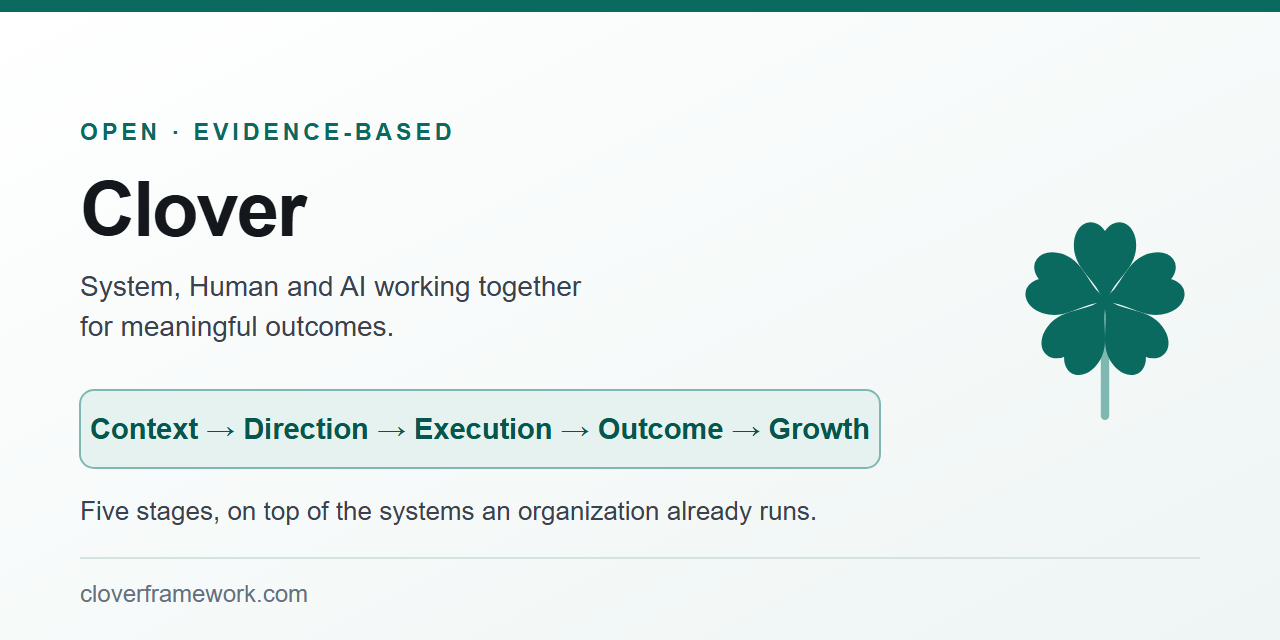
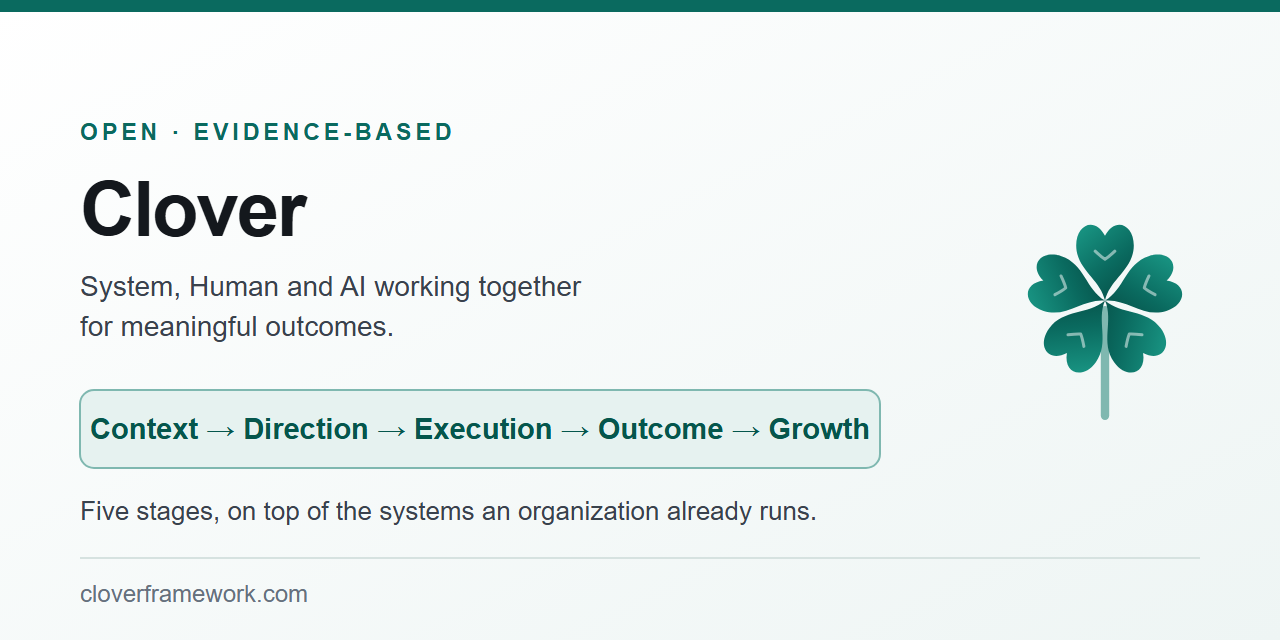
Make one clover mark canonical, and repair the story leaf pairing
assets/clover-cycle.svg was the only clover in the repository drawn from a different design: oval petals, a hub, straight labels with connector lines and a caption. It was also referenced from nowhere. It now holds the canonical mark, self-contained so it renders without the site stylesheet: heart leaves, veins, the teal gradient, and curved labels reading clockwise from Context.

The social card mark gained the same gradient and veins and is re-rendered. It previously used a flat fill with a stroke, which was the only other static clover that did not match.

The story mark on the homepage is deliberately left alone. Its fills are behaviour rather than decoration: is-next draws Growth dashed because nobody runs it, is-active fills each leaf as its step scrolls into view, and is-ink turns the whole mark dark on the closing step. A solid gradient would remove all three. It already draws from the same clover-leaf silhouette, so the shape is shared and only the fill differs, which is the part that carries meaning.

Also fixed a regression from the Action to Execution rename. The story mark's Execution label still carried data-leaf=action while its leaf carried data-leaf=execution. app.js matches marks to the current step on that attribute, so the Execution label would never have highlighted while scrolling. All five values are now paired three ways: leaf, label and step.
[…]

Changed region(s): [[0.7812, 0.3438, 0.9375, 0.5938]]

diff --git a/site/index.html b/site/index.html
@@ -27,7 +27,7 @@
 <section class="hero" id="overview"><div class="wrap"><div class="hero__top"><div><h1>Clover</h1><p class="hero__tagline">System, Human and AI working together for meaningful outcomes</p><p class="lede">The system is the Context. Direction is human. AI helps with the execution, alongside the human. Outcomes are the evidence of what changed in the system. All four together form the learning that makes the system better.</p><p style="margin-top:1rem"><strong>AI capability may scale, but accountability did not.</strong> The human holds Direction, and the accountability that comes with it.</p><div class="actions"><a class="btn btn--primary" href="#try">Try Clover</a><a class="btn" href="start/">Getting started</a><a class="btn btn--plain" href="evidence/">See real-world evidence →</a></div></div><svg class="clover clover--hero" viewBox="-6 -10 112 110" role="group" aria-label="A five-leaf clover. The leaves are Context, Direction, Execution, Outcome and Growth."><defs><linearGradient id="leaf-fade" x1="0.18" y1="0.05" x2="0.8" y2="1"><stop offset="0" stop-color="#17907f"/><stop offset="0.55" stop-color="#0a6a5f"/><stop offset="1" stop-color="#064f47"/></linearGradient><path id="arc-top" d="M28.20 12.87 A38 38 0 0 1 71.80 12.87"/><path id="arc-upper-right" d="M72.87 13.65 A38 38 0 0 1 86.34 55.11"/><path id="arc-lower-right" d="M50.77 87.99 A44 44 0 0 0 91.60 58.33"/><path id="arc-lower-left" d="M8.40 58.33 A44 44 0 0 0 49.23 87.99"/><path id="arc-upper-left" d="M13.66 55.11 A38 38 0 0 1 27.13 13.65"/></defs><g class="clover__leaf-hit" tabindex="0" role="img" aria-label="Context, held by the system. Everything the systems already hold: code, data, logs, history, and what earlier cycles wrote back. Read it rather than rebuilding it from memory."><title>Context — held by the system. Everything the systems already hold: code, data, logs, history, and what earlier cycles wrote back. Read it rather than rebuilding it from memory.</title><g transform="translate(50 44) scale(1.005 1.02) translate(-50 -44)"><use class="clover__leaf is-filled" href="#clover-leaf"/><use class="clover__vein" href="#clover-vein"/></g><text class="clover__label" text-anchor="middle"><textPath href="#arc-top" startOffset="50%">Context</textPath></text></g><g class="clover__leaf-hit" tabindex="0" role="img" aria-label="Direction, held by the human. What matters, which outcome is worth pursuing, the boundaries the work happens inside, and what must not happen. The human answers for it afterwards."><title>Direction — held by the human. What matters, which outcome is worth pursuing, the boundaries the work happens inside, and what must not happen. The human answers for it afterwards.</title><g transform="rotate(70.8 50 44) translate(50 44) scale(0.968 0.994) translate(-50 -44)"><use class="clover__leaf is-filled" href="#clover-leaf"/><use class="clover__vein" href="#clover-vein"/></g><text class="clover__label" text-anchor="middle"><textPath href="#arc-upper-right" startOffset="50%">Direction</textPath></text></g><g class="clover__leaf-hit" tabindex="0" role="img" aria-label="Execution, carried by AI. AI works out how the work should happen and does it, inside those boundaries. The human stays responsible for it being done well."><title>Execution — carried by AI. AI works out how the work should happen and does it, inside those boundaries. The human stays responsible for it being done well.</title><g transform="rotate(145.4 50 44) translate(50 44) scale(1.038 0.972) translate(-50 -44)"><use class="clover__leaf is-filled" href="#clover-leaf"/><use class="clover__vein" href="#clover-vein"/></g><text class="clover__label" text-anchor="middle"><textPath href="#arc-lower-right" startOffset="50%">Execution</textPath></text></g><g class="clover__leaf-hit" tabindex="0" role="img" aria-label="Outcome, shown by the system. What actually happened, favorable or not. A finished task, a passing build or a confident report is not an outcome on its own."><title>Outcome — shown by the system. What actually happened, favorable or not. A finished task, a passing build or a confident report is not an outcome on its own.</title><g transform="rotate(215.2 50 44) translate(50 44) scale(0.984 1.031) translate(-50 -44)"><use class="clover__leaf is-filled" href="#clover-leaf"/><use class="clover__vein" href="#clover-vein"/></g><text class="clover__label" text-anchor="middle"><textPath href="#arc-lower-left" startOffset="50%">Outcome</textPath></text></g><g class="clover__leaf-hit" tabindex="0" role="img" aria-label="Growth, kept by all three. Whatever the Outcome taught, written back so the next cycle starts from it. One wrong answer, understood and recorded, counts."><title>Growth — kept by all three. Whatever the Outcome taught, written back so the next cycle starts from it. One wrong answer, understood and recorded, counts.</title><g transform="rotate(288.9 50 44) translate(50 44) scale(1.022 0.963) translate(-50 -44)"><use class="clover__leaf is-filled" href="#clover-leaf"/><use class="clover__vein" href="#clover-vein"/></g><text class="clover__label" text-anchor="middle"><textPath href="#arc-upper-left" startOffset="50%">Growth</textPath></text></g></svg></div></div></section>
 <section class="band band--soft" id="capability"><div class="wrap"><p class="eyebrow">Where AI changes the work</p><h2>What is Clover?</h2><p class="lede">The system cycle existed before AI. Before AI, the system had two actors: <strong>System and Human</strong>.</p><p>AI disrupted this by becoming a <strong>third actor</strong>. AI can execute, but it cannot be held accountable for the consequences.</p><p>Clover makes the place of this third actor explicit:</p><p class="actors-line"><strong>System&nbsp;→ Human&nbsp;→ AI</strong></p><p>All three participate in the cycle, but responsibility changes by stage. <strong>AI executes within Human Direction and System boundaries. Humans remain accountable for what is pursued.</strong></p><dl class="kv" style="margin-top:1.4rem"><div><dt>Reasoning</dt><dd>AI can analyze systems, evidence, alternatives, and dependencies.</dd></div><div><dt>Planning</dt><dd>AI can turn Direction and Context into an operational path.</dd></div><div><dt>Execution</dt><dd>AI can write, test, query, coordinate, and carry out increasingly large portions of Execution.</dd></div><div><dt>Adaptation</dt><dd>AI can respond to what the System shows and change the path inside the Direction.</dd></div><div><dt>Validation support</dt><dd>AI can gather evidence and report what it could and could not verify.</dd></div><div><dt>Continuity</dt><dd>AI can preserve Context so another human, agent, or session can continue the work.</dd></div></dl></div></section>
 <section class="band band--wide" id="why-now"><div class="wrap"><p class="eyebrow">Why now</p><h2>AI can take on more of the Execution.</h2><p class="lede">The cycle existed before AI. The difference is that the execution layer is no longer limited to what humans can perform directly.</p><p>Before AI could execute substantial portions of work, a human usually supplied the context, made the decision, performed or coordinated the work, checked the result, and carried what they learned into the next attempt.</p><p>Now AI can read systems, reason about them, choose tools, make changes, run tests, coordinate work, and adapt to what reality shows.</p><p>The boundary does not move with it. <strong>Human Direction remains the source of purpose, meaning, priorities, boundaries, and accountability.</strong> The System remains the reality in which the outcome must exist and the primary source of evidence.</p></div></section>
-<section class="band" id="story"><div class="wrap"><p class="eyebrow">How it works</p><h2>One cycle, any scale</h2><p class="lede">The same five jobs apply from the smallest useful interaction to the most complex interconnected system.</p><div class="story" data-story><div class="story__stage"><svg class="story__clover" viewBox="-32 -20 164 132" role="img" aria-label="A five-leaf clover. The leaves are Context, Direction, Execution, Outcome and Growth."><path class="story__stem" d="M50 48C50 68 50 80 50 95"/><a class="story__leaf-link" href="#context" aria-label="Go to Context"><use class="story__leaf" data-leaf="context" href="#clover-leaf"/><text class="story__label" data-leaf="context" x="50" y="-5" text-anchor="middle">Context</text></a><a class="story__leaf-link" href="#st-direction-2" aria-label="Go to Direction"><use class="story__leaf" data-leaf="direction" href="#clover-leaf" transform="rotate(72 50 44)"/><text class="story__label" data-leaf="direction" x="98" y="30" text-anchor="start">Direction</text></a><a class="story__leaf-link" href="#st-execution-2" aria-label="Go to Execution"><use class="story__leaf" data-leaf="execution" href="#clover-leaf" transform="rotate(144 50 44)"/><text class="story__label" data-leaf="action" x="82" y="94" text-anchor="start">Execution</text></a><a class="story__leaf-link" href="#st-outcome-2" aria-label="Go to Outcome"><use class="story__leaf" data-leaf="outcome" href="#clover-leaf" transform="rotate(216 50 44)"/><text class="story__label" data-leaf="outcome" x="18" y="94" text-anchor="end">Outcome</text></a><a class="story__leaf-link" href="#st-growth-2" aria-label="Go to Growth"><use class="story__leaf" data-leaf="growth" href="#clover-leaf" transform="rotate(288 50 44)"/><text class="story__label" data-leaf="growth" x="2" y="30" text-anchor="end">Growth</text></a></svg><p class="story__caption">the five-leaf clover</p></div><div class="story__body"><header class="story__intro"><p class="story__act">One cycle · any scale</p><h3 class="story__title">The same way of working</h3><p class="story__lede">A small task can fit in a few lines. A large system may require many scoped cycles. The relationship does not change.</p></header><ol class="story__steps"><li class="story__step" id="context" data-leaf="context"><h4>Context</h4><p>Read the relevant System evidence. Use what is actually there rather than reconstructing the environment from memory.</p></li><li class="story__step" id="st-direction-2" data-leaf="direction"><h4>Direction</h4><p>The human defines the meaningful outcome, why it matters, the boundaries, priorities, and what must not happen.</p></li><li class="story__step" id="st-execution-2" data-leaf="execution"><h4>Execution</h4><p>AI determines and performs the means inside the human's Direction, using the System as Context.</p></li><li class="story__step" id="st-outcome-2" data-leaf="outcome"><h4>Outcome</h4><p>The System or relevant environment shows whether the intended outcome actually happened. An answer or artifact is not automatically Outcome.</p></li><li class="story__step" id="st-growth-2" data-leaf="growth"><h4>Growth</h4><p>Whatever the Outcome taught, written back so the next cycle starts from it. One wrong answer, understood and recorded, counts. An unfavorable Outcome usually teaches more than a favorable one.</p></li></ol></div></div></div></section>
+<section class="band" id="story"><div class="wrap"><p class="eyebrow">How it works</p><h2>One cycle, any scale</h2><p class="lede">The same five jobs apply from the smallest useful interaction to the most complex interconnected system.</p><div class="story" data-story><div class="story__stage"><svg class="story__clover" viewBox="-32 -20 164 132" role="img" aria-label="A five-leaf clover. The leaves are Context, Direction, Execution, Outcome and Growth."><path class="story__stem" d="M50 48C50 68 50 80 50 95"/><a class="story__leaf-link" href="#context" aria-label="Go to Context"><use class="story__leaf" data-leaf="context" href="#clover-leaf"/><text class="story__label" data-leaf="context" x="50" y="-5" text-anchor="middle">Context</text></a><a class="story__leaf-link" href="#st-direction-2" aria-label="Go to Direction"><use class="story__leaf" data-leaf="direction" href="#clover-leaf" transform="rotate(72 50 44)"/><text class="story__label" data-leaf="direction" x="98" y="30" text-anchor="start">Direction</text></a><a class="story__leaf-link" href="#st-execution-2" aria-label="Go to Execution"><use class="story__leaf" data-leaf="execution" href="#clover-leaf" transform="rotate(144 50 44)"/><text class="story__label" data-leaf="execution" x="82" y="94" text-anchor="start">Execution</text></a><a class="story__leaf-link" href="#st-outcome-2" aria-label="Go to Outcome"><use class="story__leaf" data-leaf="outcome" href="#clover-leaf" transform="rotate(216 50 44)"/><text class="story__label" data-leaf="outcome" x="18" y="94" text-anchor="end">Outcome</text></a><a class="story__leaf-link" href="#st-growth-2" aria-label="Go to Growth"><use class="story__leaf" data-leaf="growth" href="#clover-leaf" transform="rotate(288 50 44)"/><text class="story__label" data-leaf="growth" x="2" y="30" text-anchor="end">Growth</text></a></svg><p class="story__caption">the five-leaf clover</p></div><div class="story__body"><header class="story__intro"><p class="story__act">One cycle · any scale</p><h3 class="story__title">The same way of working</h3><p class="story__lede">A small task can fit in a few lines. A large system may require many scoped cycles. The relationship does not change.</p></header><ol class="story__steps"><li class="story__step" id="context" data-leaf="context"><h4>Context</h4><p>Read the relevant System evidence. Use what is actually there rather than reconstructing the environment from memory.</p></li><li class="story__step" id="st-direction-2" data-leaf="direction"><h4>Direction</h4><p>The human defines the meaningful outcome, why it matters, the boundaries, priorities, and what must not happen.</p></li><li class="story__step" id="st-execution-2" data-leaf="execution"><h4>Execution</h4><p>AI determines and performs the means inside the human's Direction, using the System as Context.</p></li><li class="story__step" id="st-outcome-2" data-leaf="outcome"><h4>Outcome</h4><p>The System or relevant environment shows whether the intended outcome actually happened. An answer or artifact is not automatically Outcome.</p></li><li class="story__step" id="st-growth-2" data-leaf="growth"><h4>Growth</h4><p>Whatever the Outcome taught, written back so the next cycle starts from it. One wrong answer, understood and recorded, counts. An unfavorable Outcome usually teaches more than a favorable one.</p></li></ol></div></div></div></section>
 <section class="band band--soft" id="scale"><div class="wrap"><p class="eyebrow">Two dimensions of scale</p><h2>Complexity can grow. Clover stays simple.</h2><p class="lede">Clover stays the same while both <strong>who is working</strong> and <strong>what they are working on</strong> grow in scope.</p><div class="scale-dimensions"><div><p class="eyebrow">Who is working?</p><h3>Individual → AI → Team → Organization</h3><p>The cycle can guide an individual, work performed with AI, a team working together, or an organization coordinating across teams.</p></div><div><p class="eyebrow">What are they working on?</p><h3>Task → Feature → System → Connected System</h3><p>The same cycle can apply to a small task, a feature or change, an entire system, or several systems connected to each other.</p></div></div><div class="scale-examples"><article><h3>Individual + Task</h3><p>Understand the situation, decide what matters, act, see whether it worked, and keep what it taught you.</p></article><article><h3>AI + Feature</h3><p>Use System Context and Human Direction, let AI determine the means, verify the change, and write back what the change revealed.</p></article><article><h3>Team + System</h3><p>Build shared Context, align on Direction, coordinate Execution, validate the resulting system, and keep what the team learned where the next piece of work will find it.</p></article><article><h3>Organization + Connected System</h3><p>Bring together the relevant Context, establish the organizational outcome and boundaries, coordinate work across teams and systems, verify the real outcome, and carry what it taught into the next cycle.</p></article></div><div class="scale-callout"><strong>Whoever is working, whatever they are working on, the core remains the same.</strong><br><span>System → Human → AI &nbsp;·&nbsp; Context → Direction → Execution → Outcome → Growth</span></div></div></section>
 <section class="band" id="try"><div class="wrap"><p class="eyebrow">Try it on real work</p><h2>Don't start with a framework. Start with a problem.</h2><p class="lede">Pick one real task where AI is already being used or could help. Run the Clover cycle without replacing your existing tools.</p><dl class="kv" style="margin-top:1.4rem"><div><dt>1 · Context</dt><dd>Reach the relevant System evidence.</dd></div><div><dt>2 · Direction</dt><dd>State the meaningful outcome, priorities, boundaries, and accountability.</dd></div><div><dt>3 · Execution</dt><dd>Let AI determine and execute the means inside those boundaries.</dd></div><div><dt>4 · Outcome</dt><dd>Check the intended outcome against the System or relevant environment.</dd></div><div><dt>5 · Growth</dt><dd>Write back whatever it taught you, so the next cycle starts from it rather than rediscovering it.</dd></div></dl><p style="margin-top:1.4rem">A useful failure is Context for the next cycle. A useful success can become reusable practice. Neither survives unless somebody writes it down.</p><div class="actions"><a class="btn btn--primary" href="start/">Start with the quickstart</a><a class="btn" href="https://github.com/santhoshsathish94/clover-framework">Use the GitHub repository</a></div></div></section>
 <section class="band" id="evidence-preview"><div class="wrap"><p class="eyebrow">Evidence and challenge</p><h2>Try it. Break it. See what holds.</h2><p class="lede">Clover is intended to be used, challenged, and improved through real cycles.</p><p>The repository contains real-world case studies and executable reference implementations, including a runtime-enforcement pattern that moves important verification boundaries outside the model.</p><p>External model reviews should be treated the same way: every claim should be traceable to the exact repository revision, evaluation protocol, raw review, and calculation.</p><p><a href="evidence/">Explore the evidence →</a> &nbsp; <a href="https://github.com/santhoshsathish94/clover-framework">Inspect the source →</a></p></div></section>
